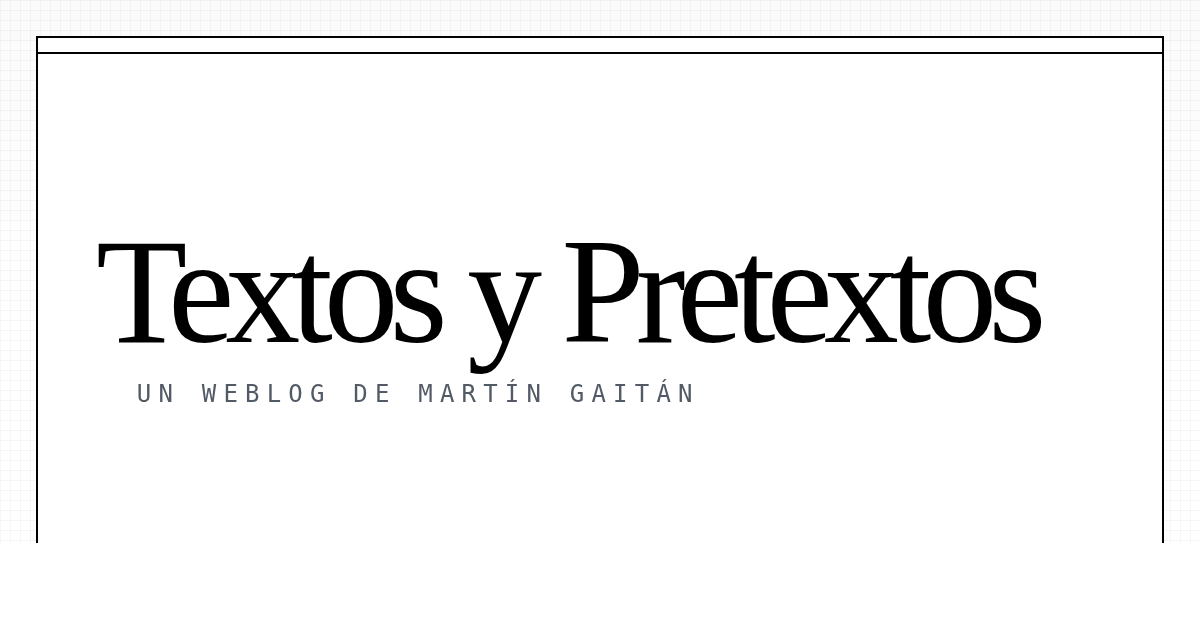
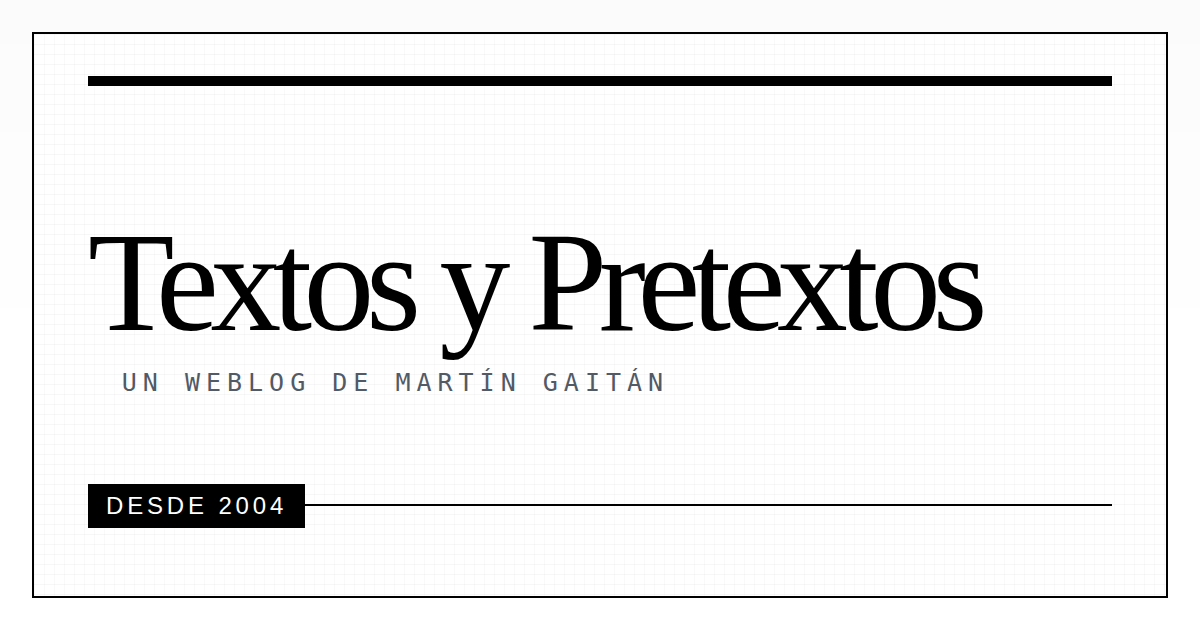
fix: update WhatsApp share preview

diff --git a/scripts/generate_og_image.py b/scripts/generate_og_image.py
@@ -1,0 +1,221 @@
+#!/usr/bin/env python3
+
+from __future__ import annotations
+
+import argparse
+import shutil
+import subprocess
+import tempfile
+from pathlib import Path
+
+
+DEFAULT_TITLE = "Textos y Pretextos"
+DEFAULT_TAGLINE = "Un weblog de Martín Gaitán"
+DEFAULT_BADGE = "Desde 2004"
+DEFAULT_WIDTH = 1200
+DEFAULT_HEIGHT = 630
+
+
+def build_html(site_css: Path, title: str, tagline: str, badge: str, width: int, height: int) -> str:
+    return f"""<!doctype html>
+<html lang="es">
+  <head>
+    <meta charset="utf-8">
+    <title>Textos y Pretextos share card</title>
+    <link rel="stylesheet" href="{site_css.resolve().as_uri()}">
+    <style>
+      html, body {{
+        margin: 0;
+        padding: 0;
+        width: {width}px;
+        height: {height}px;
+        overflow: hidden;
+        background: #fff;
+        position: relative;
+      }}
+      .frame {{
+        position: absolute;
+        top: 32px;
+        left: 32px;
+        width: {width - 64}px;
+        height: {height - 64}px;
+        overflow: hidden;
+        box-sizing: border-box;
+        border: 2px solid #000;
+        background:
+          linear-gradient(180deg, rgba(0, 0, 0, 0.03) 0, rgba(0, 0, 0, 0.03) 1px, transparent 1px, transparent 100%),
+          linear-gradient(90deg, rgba(0, 0, 0, 0.025) 0, rgba(0, 0, 0, 0.025) 1px, transparent 1px, transparent 100%),
+          #fff;
+        background-size: 100% 10px, 10px 100%, auto;
+        padding: 42px 54px;
+        display: grid;
+        grid-template-rows: auto 1fr auto 1fr auto;
+      }}
+      .top-rule {{
+        width: 100%;
+        height: 10px;
+        background: #000;
+        margin-bottom: 34px;
+      }}
+      .masthead {{
+        border: 0 !important;
+        padding: 0 !important;
+        background: transparent !important;
+      }}
+      .masthead-grid {{
+        display: block !important;
+      }}
+      .brand-title {{
+        margin: 0 !important;
+        padding: 0 !important;
+        font-size: 8.85rem !important;
+        line-height: 0.86 !important;
+        letter-spacing: -0.06em !important;
+      }}
+      .story-kicker {{
+        margin: 20px 0 0 1.35em !important;
+        font-size: 25px !important;
+        letter-spacing: 0.24em !important;
+        color: rgb(82 90 102) !important;
+      }}
+      .spacer {{
+        min-height: 0;
+      }}
+      .footer-row {{
+        align-self: end;
+        position: relative;
+        padding-top: 22px;
+        border-top: 2px solid #000;
+        min-height: 50px;
+      }}
+      .badge {{
+        position: absolute;
+        left: 0;
+        top: -22px;
+        display: inline-flex;
+        align-items: center;
+        background: #000;
+        color: #fff;
+        font-family: var(--font-ui);
+        font-size: 24px;
+        font-weight: 500;
+        line-height: 1;
+        text-transform: uppercase;
+        letter-spacing: 0.16em;
+        padding: 10px 18px;
+      }}
+    </style>
+  </head>
+  <body>
+    <div class="frame">
+      <div class="top-rule"></div>
+      <div class="spacer"></div>
+      <header class="masthead">
+        <div class="masthead-grid">
+          <div>
+            <h1 class="brand-title">{title}</h1>
+            <p class="story-kicker">{tagline}</p>
+          </div>
+        </div>
+      </header>
+      <div class="spacer"></div>
+      <div class="footer-row">
+        <span class="badge">{badge}</span>
+      </div>
+    </div>
+  </body>
+</html>
+"""
+
+
+def find_chrome(explicit: str | None) -> str:
+    if explicit:
+        return explicit
+
+    for candidate in (
+        "google-chrome",
+        "google-chrome-stable",
+        "chromium",
+        "chromium-browser",
+    ):
+        path = shutil.which(candidate)
+        if path:
+            return path
+
+    raise SystemExit("No se encontró Chrome/Chromium. Pasá --chrome-bin /ruta/al/binario.")
+
+
+def main() -> None:
+    parser = argparse.ArgumentParser(description="Genera la og-image.png usando el CSS real del sitio y Chrome headless.")
+    parser.add_argument("--output", default="static/og-image.png")
+    parser.add_argument("--site-css", default="static/assets/site.css")
+    parser.add_argument("--title", default=DEFAULT_TITLE)
+    parser.add_argument("--tagline", default=DEFAULT_TAGLINE)
+    parser.add_argument("--badge", default=DEFAULT_BADGE)
+    parser.add_argument("--width", type=int, default=DEFAULT_WIDTH)
+    parser.add_argument("--height", type=int, default=DEFAULT_HEIGHT)
+    parser.add_argument("--chrome-bin")
+    parser.add_argument("--dump-html", help="Guarda el HTML intermedio en esta ruta en vez de usar un tempfile.")
+    args = parser.parse_args()
+
+    root = Path(__file__).resolve().parents[1]
+    output = (root / args.output).resolve()
+    site_css = (root / args.site_css).resolve()
+    chrome_bin = find_chrome(args.chrome_bin)
+
+    if not site_css.exists():
+        raise SystemExit(f"No existe el CSS: {site_css}")
+
+    html = build_html(
+        site_css=site_css,
+        title=args.title,
+        tagline=args.tagline,
+        badge=args.badge,
+        width=args.width,
+        height=args.height,
+    )
+
+    output.parent.mkdir(parents=True, exist_ok=True)
+
+    if args.dump_html:
+        html_path = (root / args.dump_html).resolve()
+        html_path.parent.mkdir(parents=True, exist_ok=True)
+        html_path.write_text(html, encoding="utf-8")
+    else:
+        tmp = tempfile.NamedTemporaryFile("w", suffix=".html", delete=False, encoding="utf-8")
+        html_path = Path(tmp.name)
+        tmp.write(html)
+        tmp.close()
+
+    # Chrome headless reserves ~87px for its UI chrome even in headless mode on Linux.
+    # We over-provision the window height so the CSS content area is exactly args.height,
+    # then crop the screenshot back to the desired dimensions.
+    chrome_ui_overhead = 87
+    with tempfile.NamedTemporaryFile(suffix=".png", delete=False) as tmp_png:
+        raw_png = Path(tmp_png.name)
+
+    cmd = [
+        chrome_bin,
+        "--headless=new",
+        "--disable-gpu",
+        "--hide-scrollbars",
+        f"--window-size={args.width},{args.height + chrome_ui_overhead}",
+        f"--screenshot={raw_png}",
+        html_path.as_uri(),
+    ]
+    subprocess.run(cmd, check=True)
+
+    try:
+        from PIL import Image
+        with Image.open(raw_png) as img:
+            img.crop((0, 0, args.width, args.height)).save(output)
+    except ImportError:
+        import shutil
+        shutil.move(raw_png, output)
+        print("Warning: Pillow not installed; screenshot NOT cropped. Install Pillow for exact dimensions.")
+    else:
+        raw_png.unlink(missing_ok=True)
+
+
+if __name__ == "__main__":
+    main()
